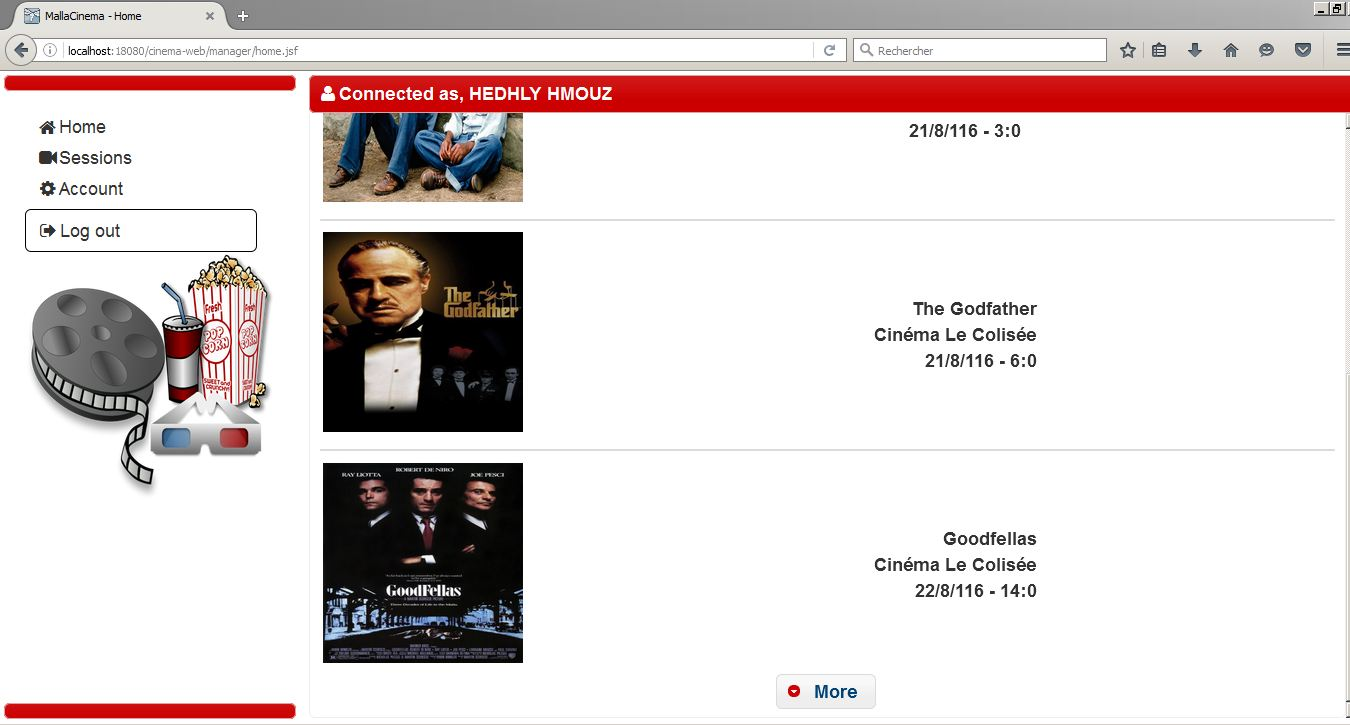
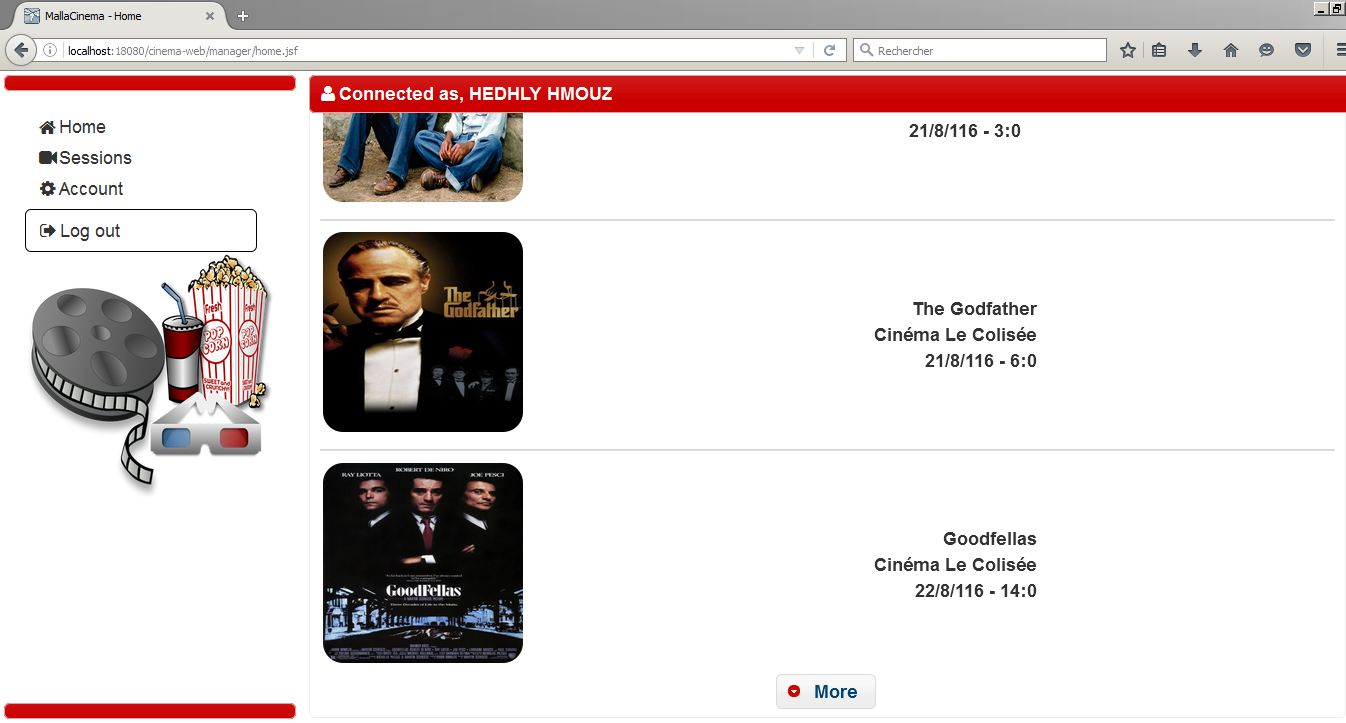
round border then break :coffee:  :smile:

diff --git a/src/main/webapp/resources/css/style.css b/src/main/webapp/resources/css/style.css
@@ -41,10 +41,8 @@ h4 {
 	overflow: hidden;
 }
 
-.userImg{
+.roundImg{
 	border-radius: 20px;
-	border-bottom: thick;
-	border-bottom-color: yellow;
 }
 .mymap{
 	 padding-left: 6cm;
